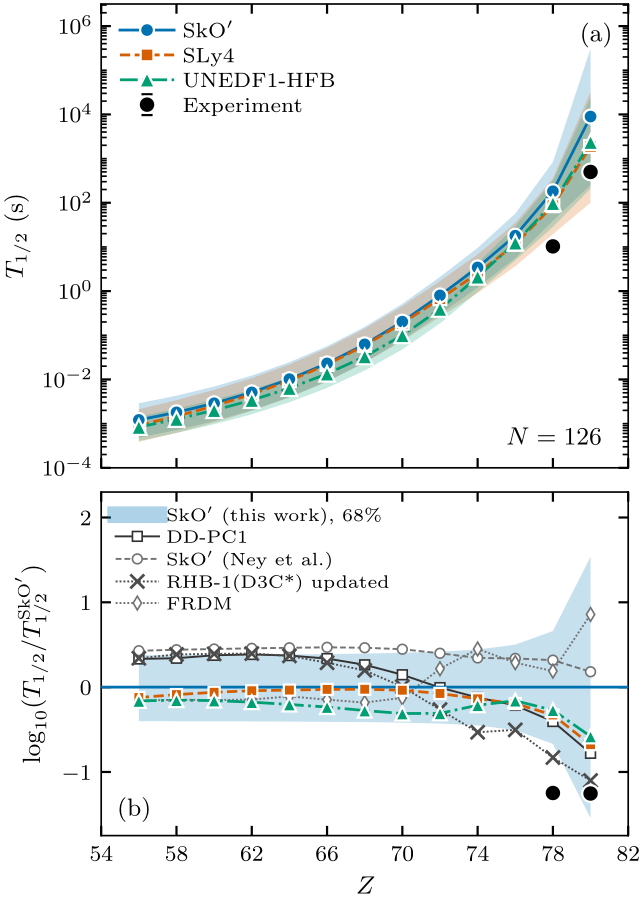
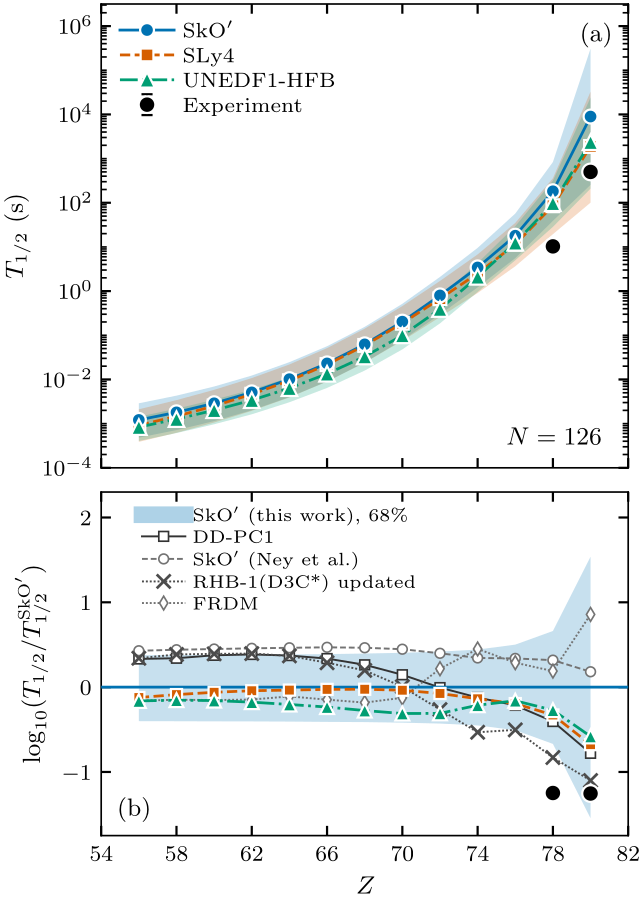
Fig. 8: panel (b) legend shifted slightly right of the axis

Changed region(s): [[0.1553, 0.5581, 0.6522, 0.6822]]

diff --git a/paper/scripts/fig_n126_halflives_ratio.py b/paper/scripts/fig_n126_halflives_ratio.py
@@ -160,8 +160,9 @@ axb.set_xlim(ZMIN, ZMAX)
 axb.set_xticks(range(ZMIN, ZMAX + 1, 4))
 axb.set_ylim(*YLIM_B)
 # 2026-11-11 (user): single column; the 2-column legend let "RHB-1(D3C*) updated" stick out past the axes
-axb.legend(handles=handles_b, loc="upper left", fontsize=6.5, frameon=False, ncol=1, handlelength=2.4,
-           handletextpad=0.4, borderpad=0.3, labelspacing=0.25)
+# 2026-11-11 (user): legend a little to the right of the axis (bbox_to_anchor x = 0.05 in axes fraction)
+axb.legend(handles=handles_b, loc="upper left", bbox_to_anchor=(0.05, 1.0), fontsize=6.5, frameon=False, ncol=1,
+           handlelength=2.4, handletextpad=0.4, borderpad=0.3, labelspacing=0.25)
 axb.text(0.03, 0.04, "(b)", transform=axb.transAxes, ha="left", va="bottom")
 
 ps.save(fig, OUT)
